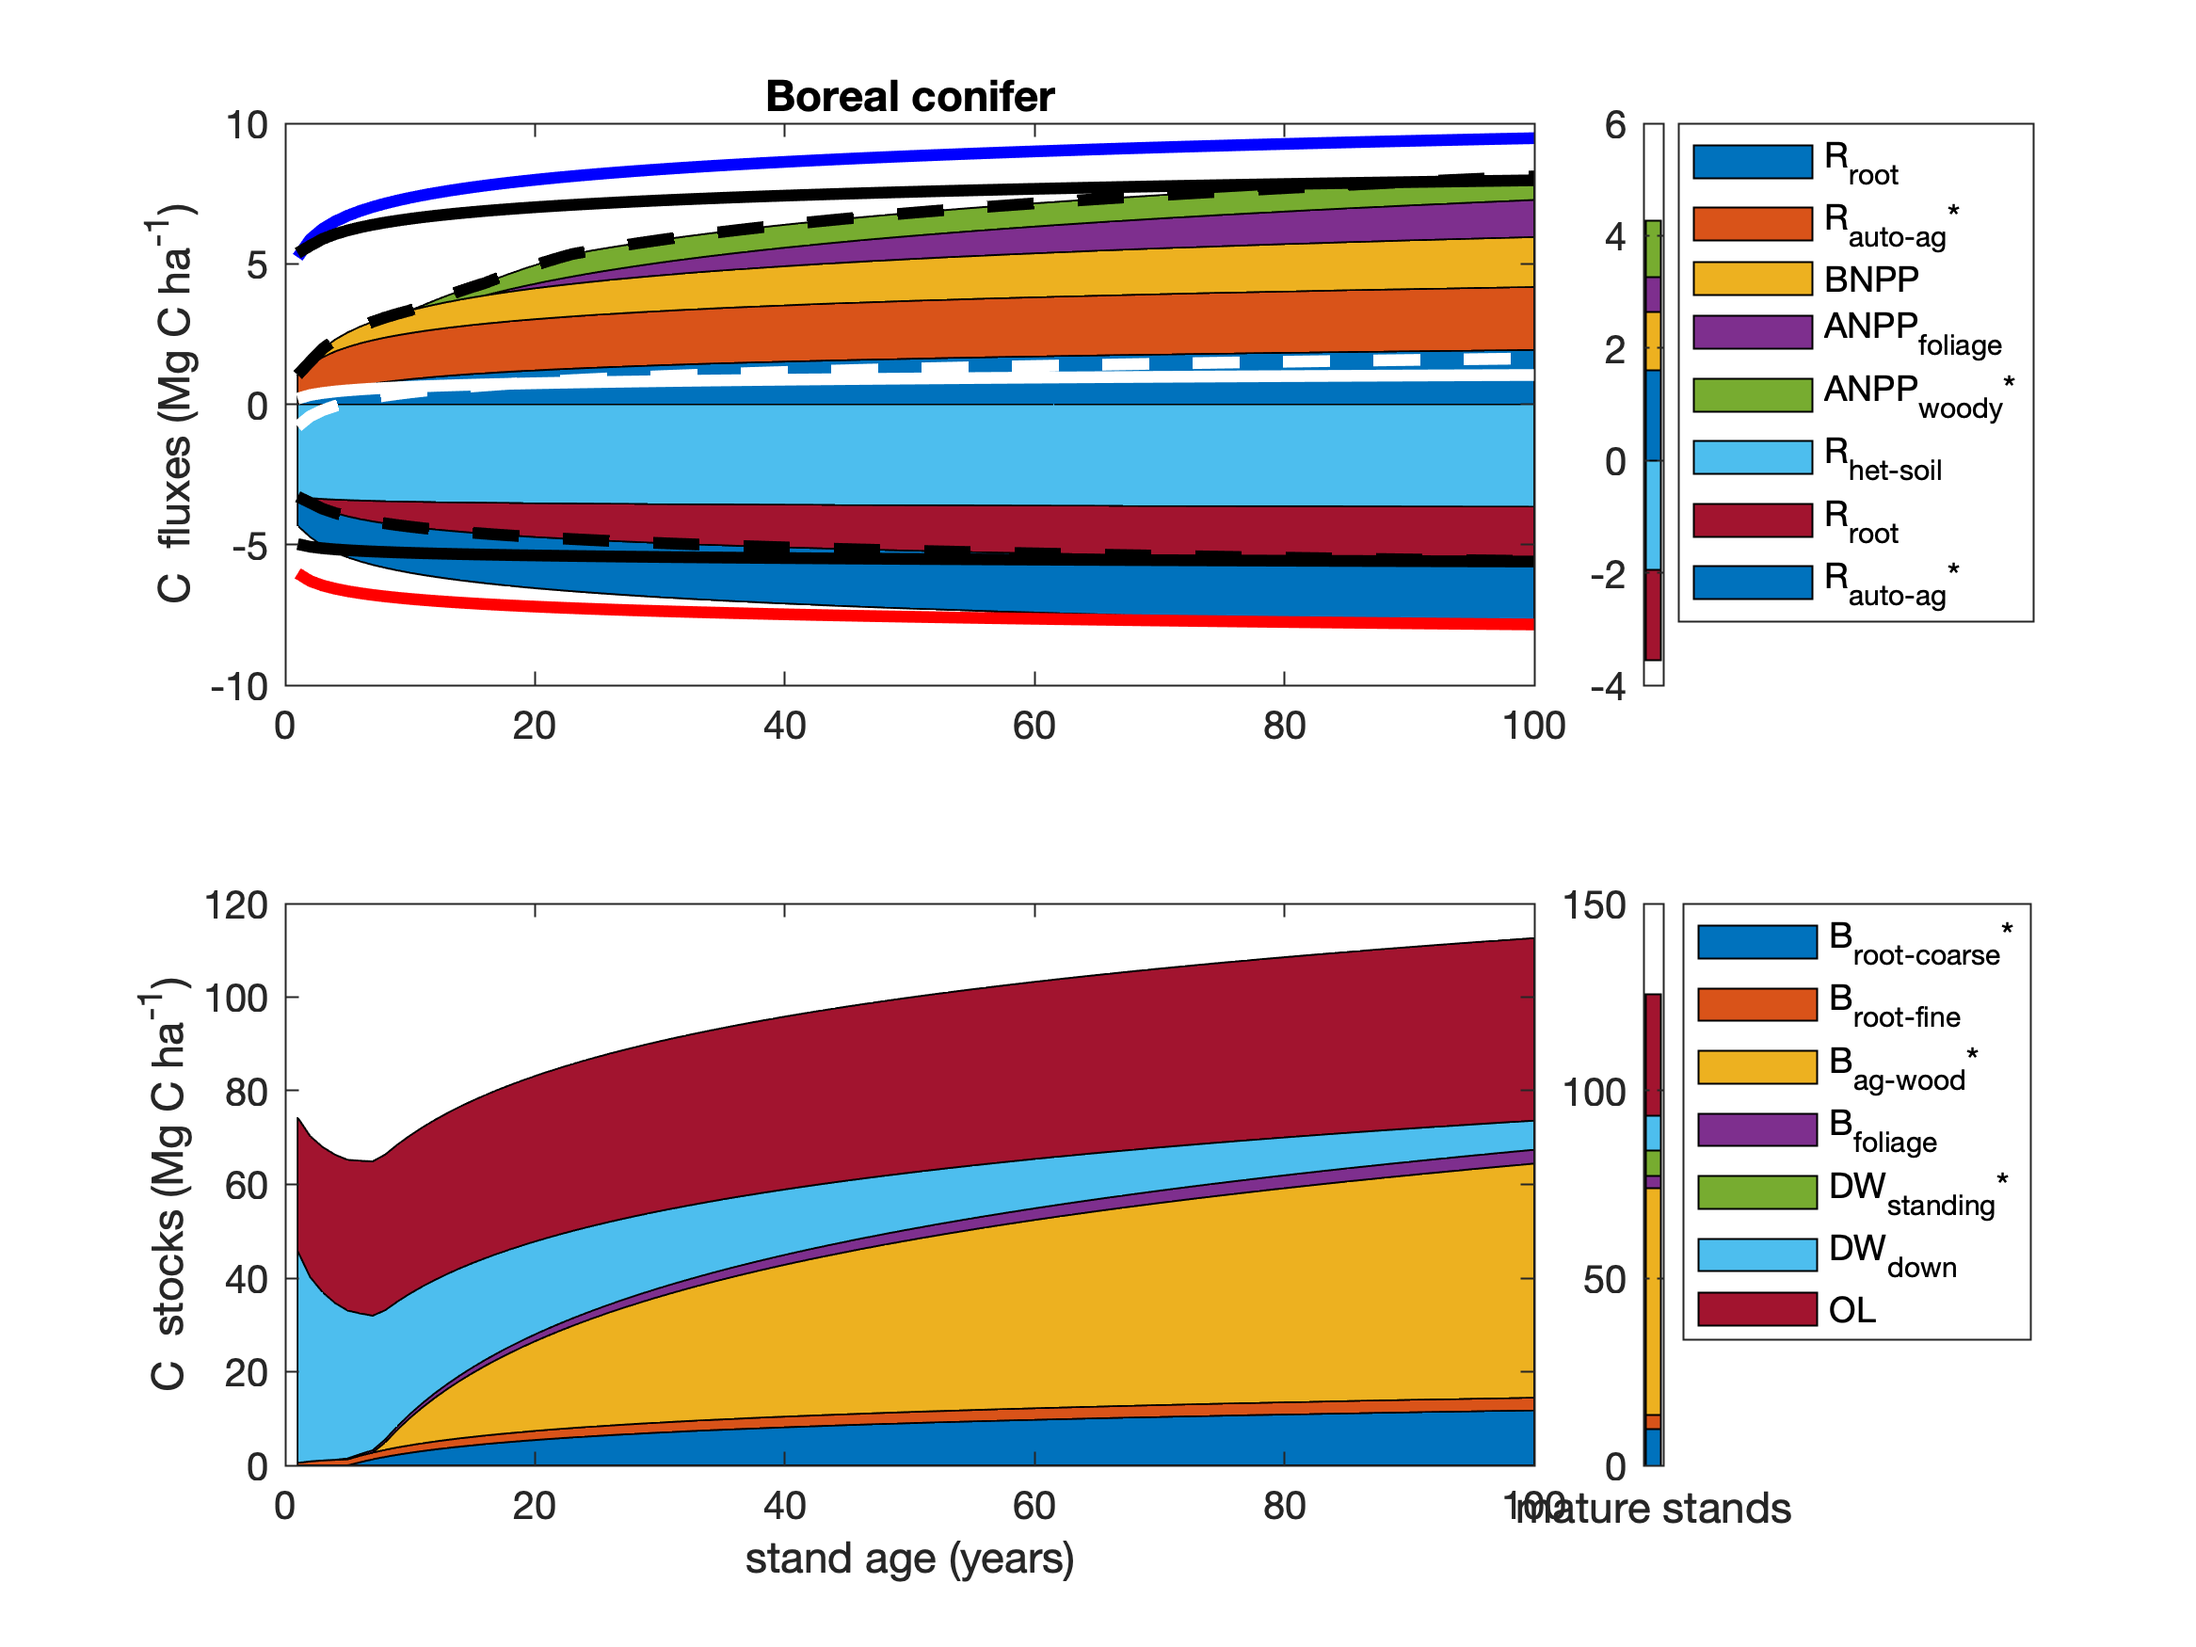
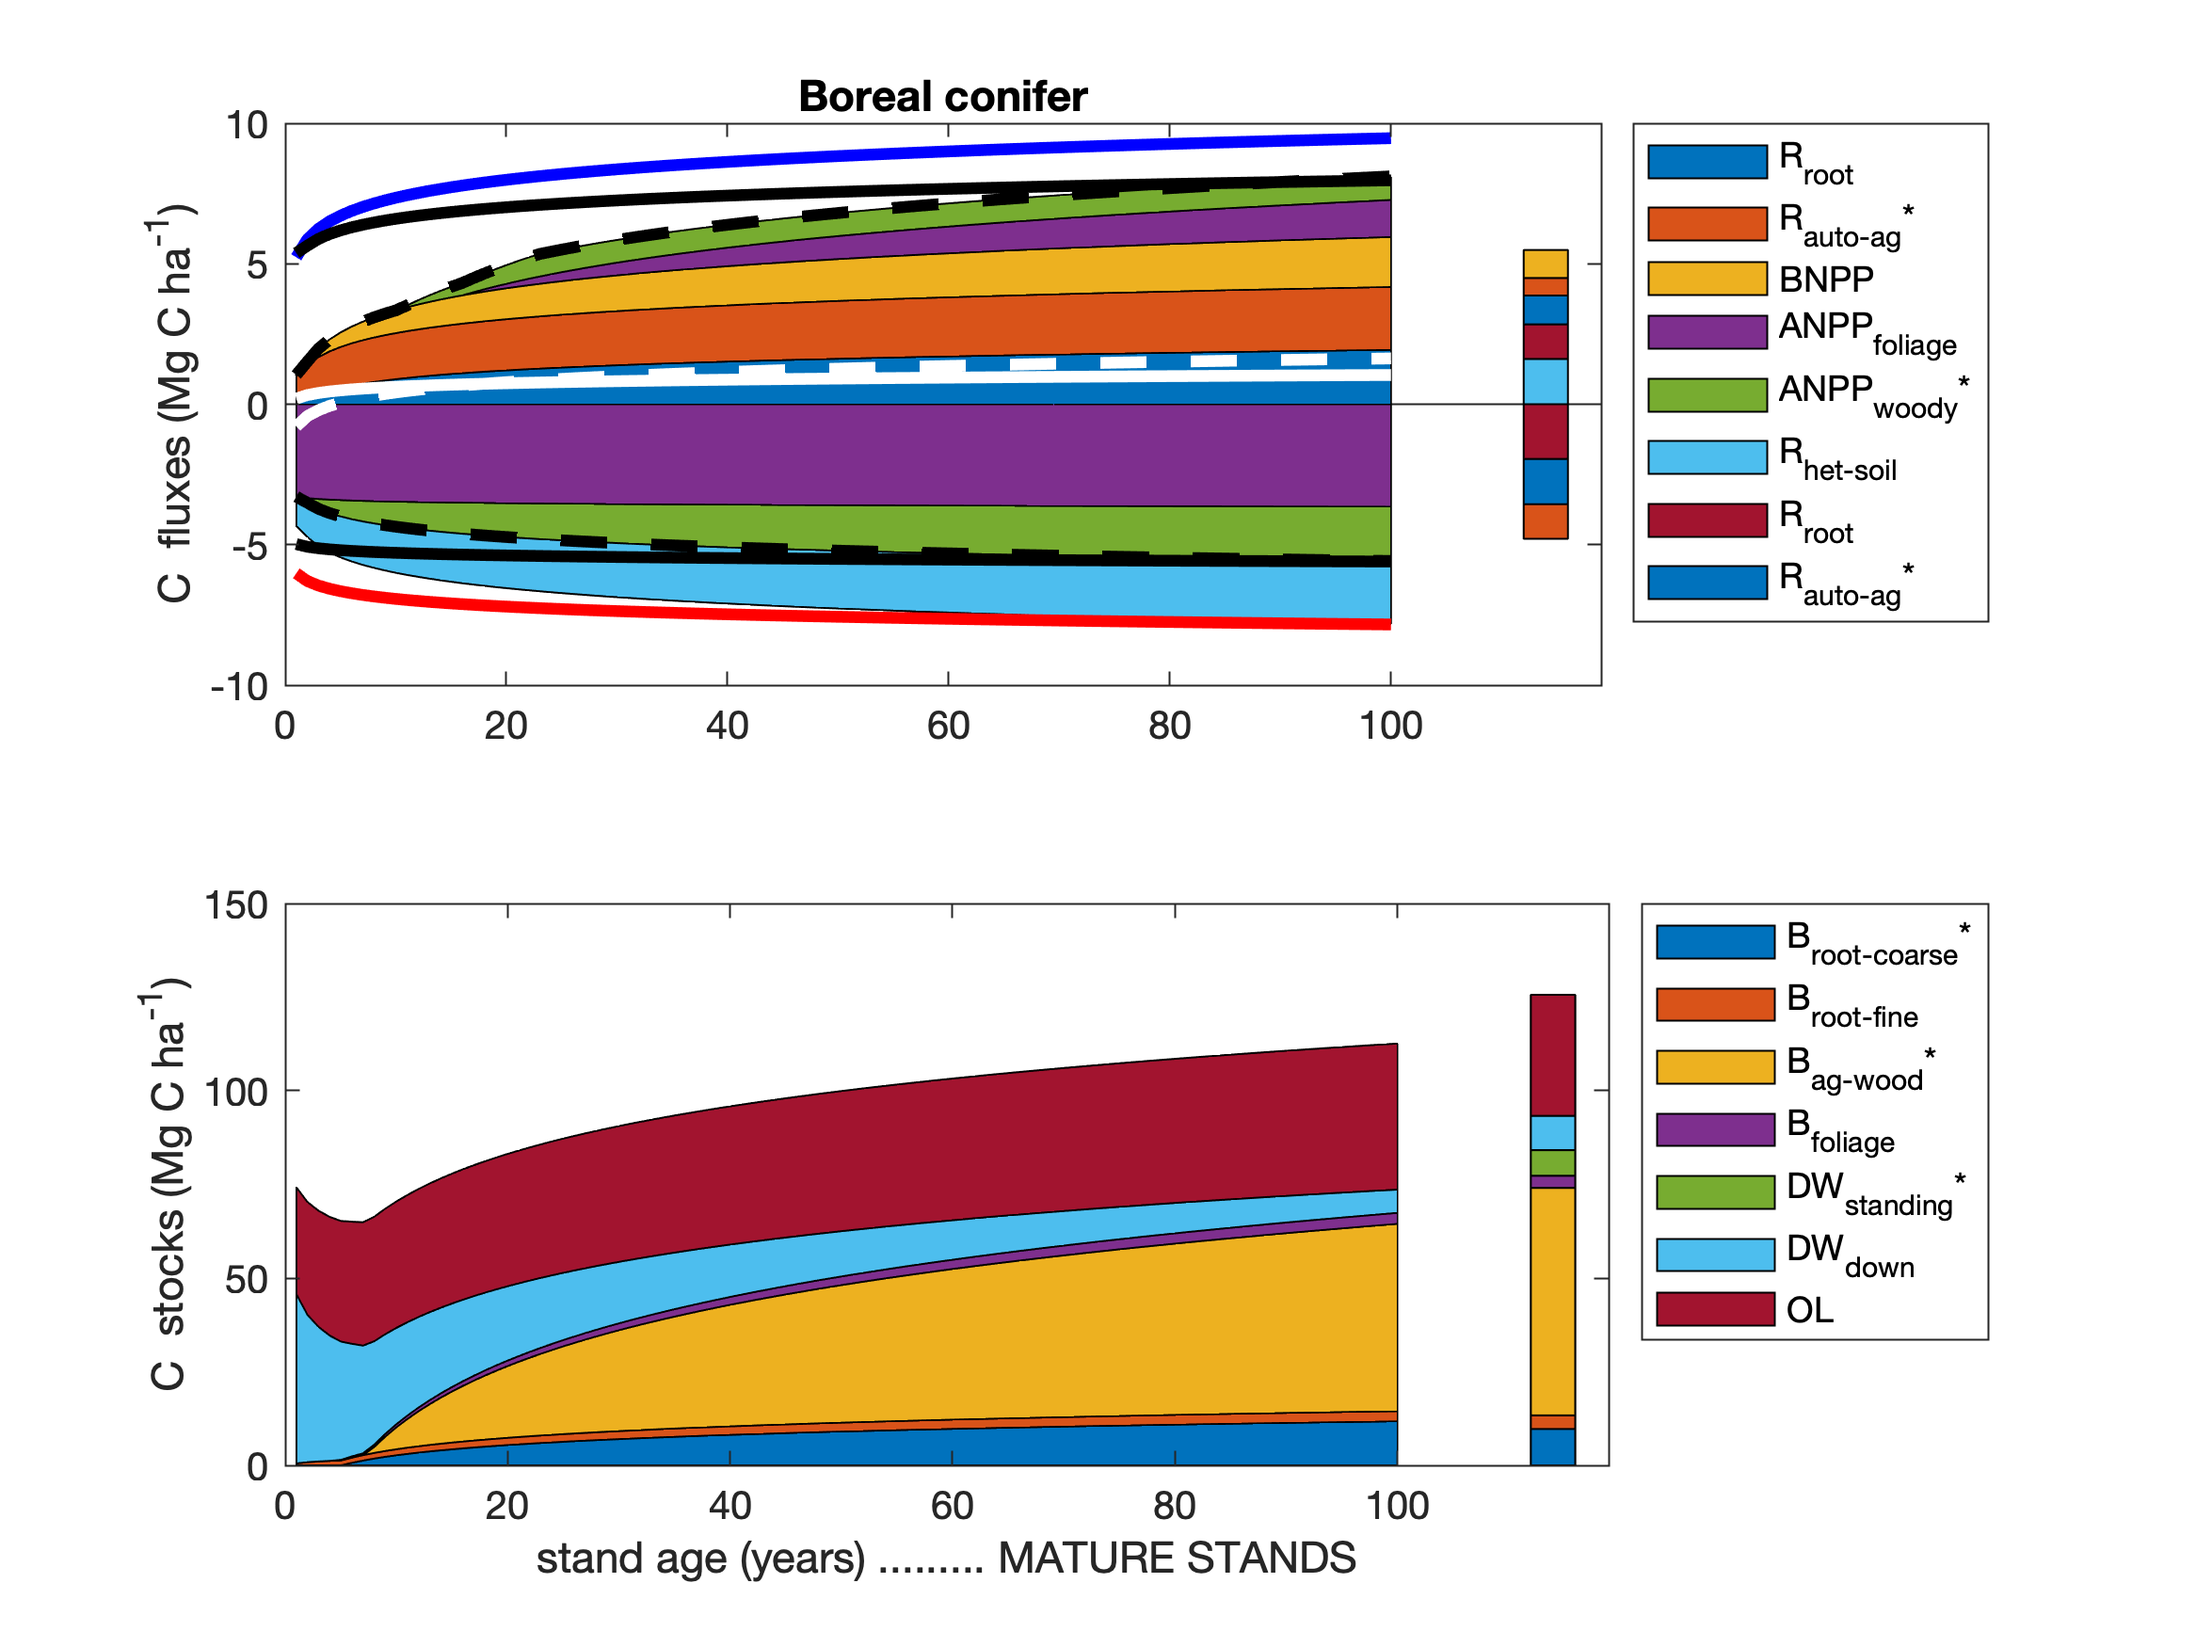
combined young and mature into one plot
#64
(messes up flux legend)

diff --git a/manuscript/tables_figures/stacked_age_trends/stacked_area_results.m b/manuscript/tables_figures/stacked_age_trends/stacked_area_results.m
@@ -165,13 +165,9 @@ elseif b==1  %tropical forests
     R_auto_ag_calc=max(0,R_auto_calc-R_root);
 end
 
-
-
-
-
 BNPP_coarse_calc=max(0,BNPP-BNPP_fine);
 
-% 1.2 group for plotting
+% 1.1.3 group for plotting
 % "in" (GPP components) 
 in_flux_names = {'R_{root}', 'R_{auto-ag}*', 'BNPP', 'ANPP_{foliage}', 'ANPP_{woody}*'};
 in_fluxes = [R_root; R_auto_ag_calc; BNPP; ANPP_foliage; ANPP_woody_calc ]; %matrix with all fluxes for stacked plot
@@ -188,7 +184,7 @@ flux_names= [in_flux_names, out_flux_names];
 fluxes = [in_fluxes; -1*out_fluxes];
 
 
-% 1.2. define mature fluxes 
+% 1.2.1 define mature fluxes 
 NEP_index=find(strcmp(ForC_variable_averages.variable_diagram,'NEP') + strcmp(ForC_variable_averages.Biome,strcat(biomes(b),' MATURE'))==2);
 NEP_mature=ForC_variable_averages.mean(NEP_index);
 
@@ -213,16 +209,23 @@ ANPP_stem_mature=ForC_variable_averages.mean(ANPP_stem_index);
 GPP_index=find(strcmp(ForC_variable_averages.variable_diagram,'GPP') + strcmp(ForC_variable_averages.Biome,strcat(biomes(b),' MATURE'))==2);
 GPP_mature=ForC_variable_averages.mean(GPP_index);
 
+R_soil_index=find(strcmp(ForC_variable_averages.variable_diagram,'R_soil') + strcmp(ForC_variable_averages.Biome,strcat(biomes(b),' MATURE'))==2);
+R_soil_mature=ForC_variable_averages.mean(R_soil_index);
+
 R_het_soil_index=find(strcmp(ForC_variable_averages.variable_diagram,'R_het_soil') + strcmp(ForC_variable_averages.Biome,strcat(biomes(b),' MATURE'))==2);
 R_het_soil_mature=ForC_variable_averages.mean(R_het_soil_index);
 
 R_eco_index=find(strcmp(ForC_variable_averages.variable_diagram,'R_eco') + strcmp(ForC_variable_averages.Biome,strcat(biomes(b),' MATURE'))==2);
 R_eco_mature=ForC_variable_averages.mean(R_eco_index);
 
-%for grouped stacked plot
-mature_fluxes= [R_root_mature R_auto_ag_mature BNPP_mature ANPP_foliage_mature ANPP_woody_mature... %in fluxes
-                -R_het_soil_mature -R_root_mature -R_auto_ag_mature]; % out fluxes
-mature_fluxes_matrix(b,1:length(mature_fluxes)) =mature_fluxes;
+% 1.2.2 calculations
+R_auto_ag_mature_calc=R_eco_mature-R_soil_mature;
+
+%for grouped stacked plot (%THIS NEEDS TO MATCH YOUNG STANDS, ABOVE)
+mature_in_fluxes= [R_root_mature R_auto_ag_mature_calc BNPP_mature ANPP_foliage_mature ANPP_woody_mature]; %in fluxes
+mature_out_fluxes= [-R_het_soil_mature -R_root_mature -R_auto_ag_mature_calc]; % out fluxes
+mature_in_fluxes_matrix(b,1:length(mature_in_fluxes)) =mature_in_fluxes;
+mature_out_fluxes_matrix(b,1:length(mature_out_fluxes)) =mature_out_fluxes;
 
 
 
@@ -302,13 +305,15 @@ mature_stocks_matrix(b,1:length(mature_stocks)) =mature_stocks;
 %% ~~~~~~~PLOTTING~~~~~~~~~~
 
 figure (b)
- 
-subplot (2,4,1:3)
-%flux plot:
-h=area (age, in_fluxes'); %, 'LineStyle','-'); 
-hold on;
-h=area (age, -1*out_fluxes'); %, 'LineStyle','-'); 
-hold on;
+
+subplot (2,1,1) %FLUXES
+
+h1a=area (age, in_fluxes'); hold on;
+h2a=area(112:116, mature_in_fluxes.*ones(5,size(mature_in_fluxes,1))); hold on;
+
+h1b=area (age, -1*out_fluxes'); %, 'LineStyle','-'); 
+b2b=area(112:116, mature_out_fluxes.*ones(5,size(mature_out_fluxes,1))); hold on;
+
 if b~= 1 
     plot(age, GPP, '-b', 'LineWidth', 3); hold on; % eddy flux: insufficient data for tropics
     plot(age, -R_eco, '-r', 'LineWidth', 3); % eddy flux: insufficient data for tropics
@@ -320,37 +325,30 @@ plot(age, in_sum, '--k', 'LineWidth', 3); hold on;
 plot(age, R_auto_calc+NPP, '-k', 'LineWidth', 3);hold on;
 plot(age, -R_soil, '-k', 'LineWidth', 3);hold on;
 plot(age, -R_root-R_het_soil, '--k', 'LineWidth', 3);hold on;
+
+xlim([0 119])
 t = title(biomes(b));
 ylabel ('C  fluxes (Mg C ha^{-1})')
 
-subplot (2,4,4) %mature C fluxes
-bar([mature_fluxes_matrix(b,:); 0*ones(1, size(mature_fluxes_matrix,2))], 'stacked');
 legend (flux_names, 'Location', 'BestOutside');
-xlim([0.5 1.5])
-set(gca, 'XTick', []); %ticks off
 
 
-subplot (2,4,5:7)
-%flux plot:
-h=area (age, stocks'); hold on;
+
+subplot (2,1,2) %STOCKS
+h1=area (age, stocks'); hold on;
+h2=area(112:116, mature_stocks.*ones(5,size(mature_stocks,1))); hold on;
+
 %compare biomass from different estimation methods:
 %plot(age, B_tot, '-k', 'LineWidth', 3);
 %plot(age, B_tot_calc, '--k', 'LineWidth', 3);
 
-h2=area(118:122, mature_stocks.*ones(5,size(mature_stocks,1)));
-xlabel ('stand age (years)');
+xlim([0 119])
+xlabel ('stand age (years) ......... MATURE STANDS');
 ylabel ('C  stocks (Mg C ha^{-1})')
 
-subplot (2,4,8) %mature C stocks
-bar([mature_stocks_matrix(b,:); 0*ones(1, size(mature_stocks_matrix,2))], 'stacked');
-legend (stock_names, 'Location', 'BestOutside');
-xlabel ('mature stands');
-xlim([0.5 1.5])
-set(gca, 'XTick', []); %ticks off
 
-%figure (10+b)
-%plot (age, ANPP_woody, age, ANPP_foliage, age, ANPP_woody_calc, age, ANPP_foliage+ANPP_woody_calc)
-%legend ('ANPP', 'ANPP_foliage', 'ANPP woody', 'foliage+woody')
+legend (stock_names, 'Location', 'BestOutside');
+
 
 %% ~~~~~~~ SAVE FIGURE~~~~~~~~~~~~~~~~~~~~~~~~~~~~~~~~~~~~~~~~~~~~~
 cd(working_dir)
